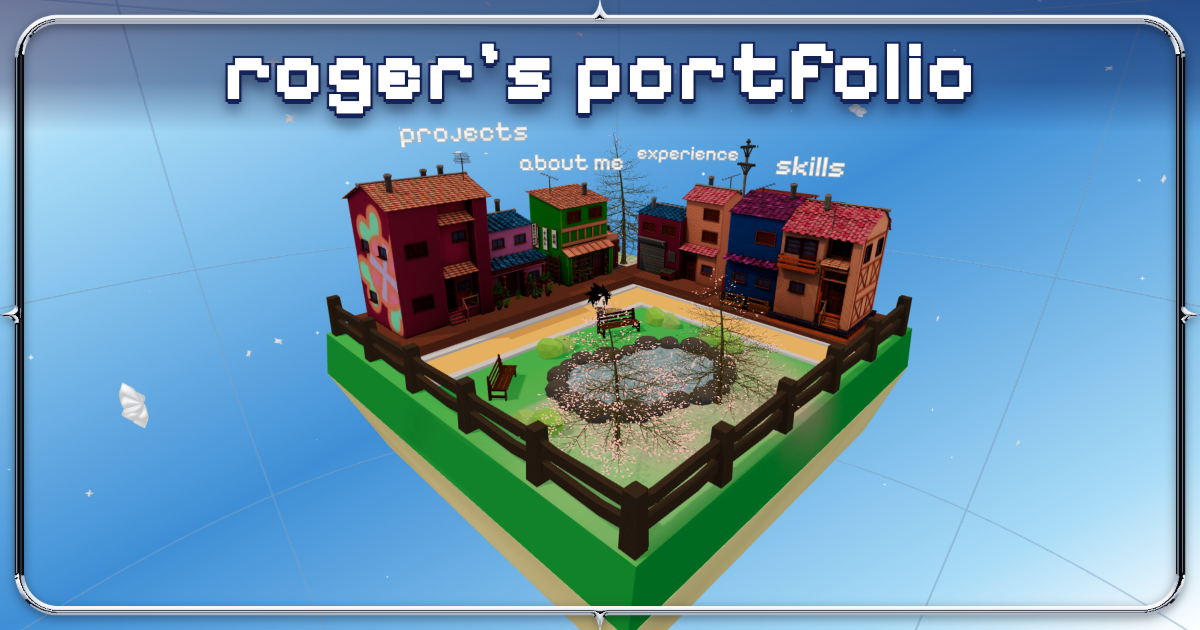
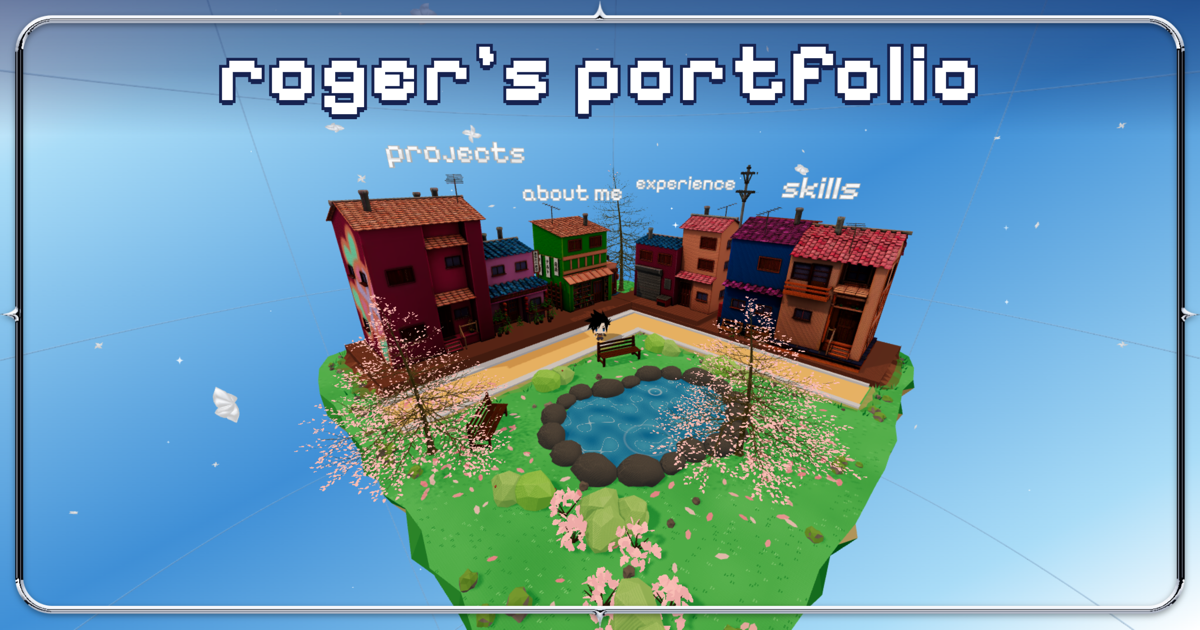
chore: update the link preview image to the new island
The image's URL gets a version so Discord and Slack fetch the new one instead of their cached copy.

diff --git a/frontend/index.html b/frontend/index.html
@@ -61,7 +61,7 @@
       property="og:description"
       content="Walk through a small 3D town where each building opens Roger Truong's projects and experience, with click-through demos of the apps he's built."
     />
-    <meta property="og:image" content="https://roger-was-here.com/og.png" />
+    <meta property="og:image" content="https://roger-was-here.com/og.png?v=2" />
     <meta property="og:image:type" content="image/png" />
     <meta property="og:image:width" content="1200" />
     <meta property="og:image:height" content="630" />
@@ -70,7 +70,7 @@
       content="The words roger's portfolio above a small 3D town floating in a blue sky, with buildings labelled projects, about me, experience and skills."
     />
     <meta name="twitter:card" content="summary_large_image" />
-    <meta name="twitter:image" content="https://roger-was-here.com/og.png" />
+    <meta name="twitter:image" content="https://roger-was-here.com/og.png?v=2" />
   </head>
   <body>
     <div id="root"></div>
